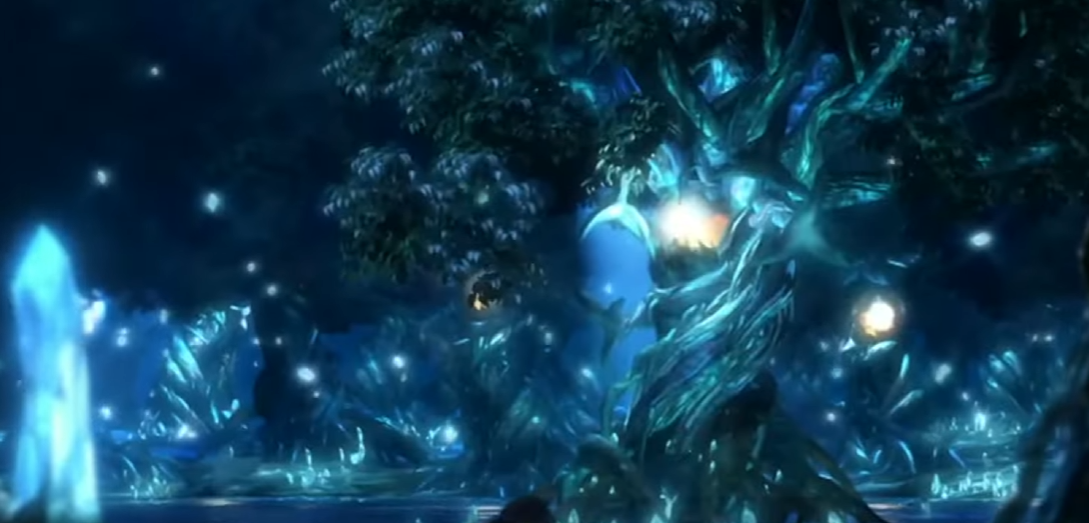
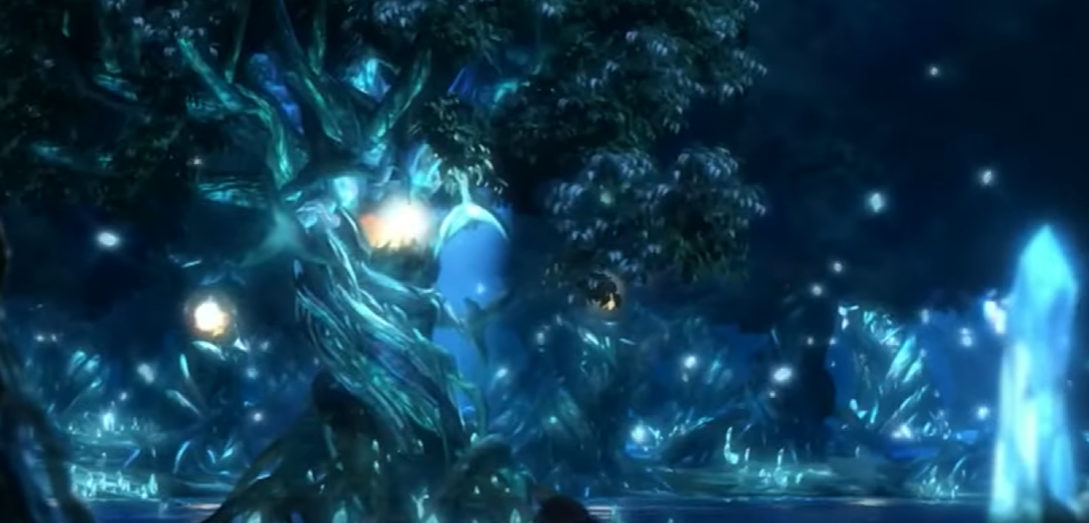
uh

diff --git a/Coursework/Raytracer/main.cpp b/Coursework/Raytracer/main.cpp
@@ -116,7 +116,7 @@ int main(int argc, char* argv[]) {
 	Eigen::Matrix4f BCTransform = makeTranslationMatrix(Eigen::Vector3f(-.6f, -.15f, -0.4f));
 	Eigen::Matrix4f CrystalTransform = makeTranslationMatrix(Eigen::Vector3f(-0.3f, -.2f, -0.9f));
 	Eigen::Matrix4f WaterTransform = makeTranslationMatrix(Eigen::Vector3f(-1.5f, -.2f, -2.f)) * rotateY(M_PI / 10.0f) * uniformScale(2.f);
-	Eigen::Matrix4f BGTransform = makeTranslationMatrix(Eigen::Vector3f(-2.f, -.2f, 1.f)) * rotateY(M_PI) * uniformScale(5.f);
+	Eigen::Matrix4f BGTransform = makeTranslationMatrix(Eigen::Vector3f(-2.f, -.2f, -8.f)) * rotateY(M_PI) * uniformScale(5.f);
 	// Optional code: here's how to add the spot mesh to the scene, using a BVH
 	// Try enabling this and comparing it to the non-BVH version below!
 	Model tidusModel("../models/TidusModel/Tidus.obj");
